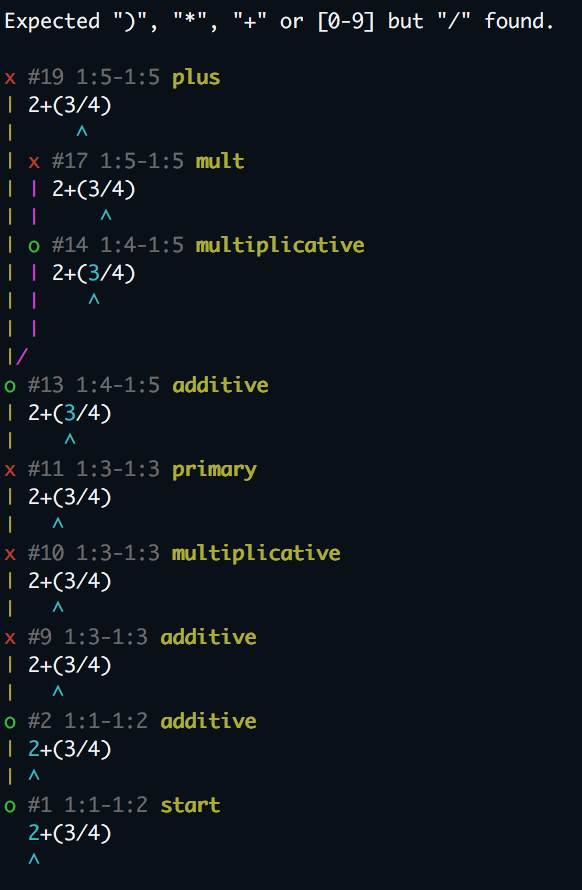
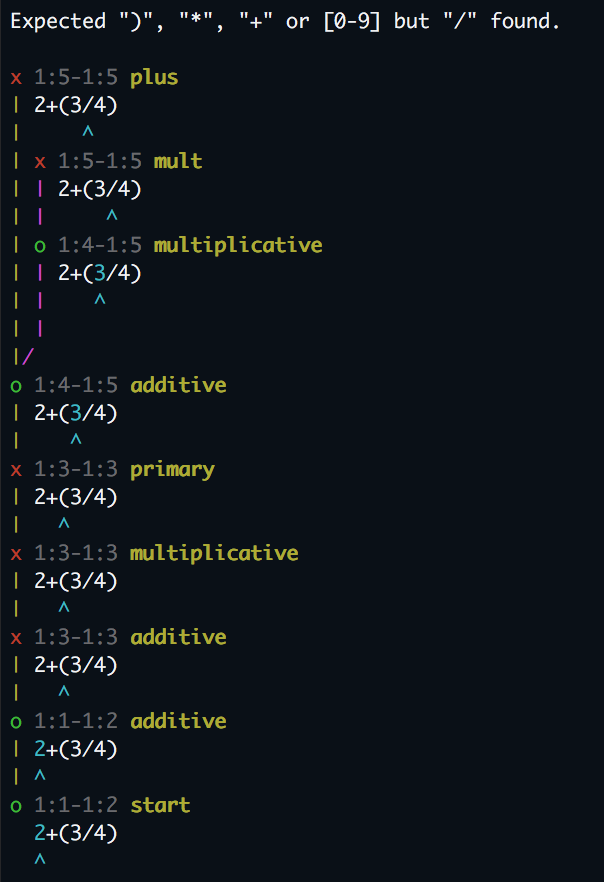
Update README.

diff --git a/README.md b/README.md
@@ -1,15 +1,13 @@
-# pegjs-backtrace.js
-A debug tracer module for PEG.js. It generates a backtrace of the grammer rules when the parser fails.
+# pegjs-backtrace
+A tracer module for PEG.js which generates a visual backtrace tree when the parser fails.
+
+This module also supports normal tracing output. See [showTrace](#showTrace) option for detail.
 
 # Example
-The following example grammer is from PEG.js tutorial. It recognizes arithmetic expressions like `2*(3+4)`.
+The following example grammer recognizes arithmetic expressions like `2*(3+4)`.
 
 ```
 start = additive
-
-plus = "+"
-
-mult = "*"
 
 additive = multiplicative plus additive / multiplicative
 
@@ -18,19 +16,33 @@ multiplicative = primary mult multiplicative / primary
 primary = integer / "(" additive ")"
 
 integer = digits:[0-9]+
+
+plus = "+"
+
+mult = "*"
 ```
 
-If you give the `2*(3/4)` which the grammer does not recognize, pegjs-backtrace shows backtrace from the most deep failure after parser fails as follows.
+If you give the `2*(3/4)` which the grammer does not recognize, pegjs-backtrace shows backtrace tree from the maximum failure position(s) to the start rule as follows.
 
-![](./sample/verbose.png)
+<img src="img/backtrace.png" width="400">
+
+# Install
+
+This module is still experimental and not registered to the npm repository. 
+Use npm install from git URL.
+
+```
+npm install https://github.com/okaxaki/pegjs-backtrace
+```
 
 # Usage
-pegjs-backtrace is implemented as a Tracer. When calling the `parse` function, pass the backtrace instance to the `tracer` option.
-Then, after parser fails, you can obtain a backtrace object from `backtrace()`, or backtrace string from `dumpBacktrace()`.
+
+pegjs-backtrace is implemented as a Tracer. When calling the `parse` function, pass the pegjs-backtrace instance to the `tracer` option.
+Then, after parser fails, you can obtain the backtrace string from `getBacktraceString()`.
 
 ```
-var Parser = require('./parser.js'); // parser generated by pegjs --trace
-var Tracer = require('pegjs-debug-backtrace');
+var Parser = require('./parser'); // parser generated by pegjs --trace
+var Tracer = require('pegjs-backtrace');
 
 var text = '2*(3/4)';
 var tracer = new Tracer(text); // input text is required.
@@ -38,31 +50,30 @@ var tracer = new Tracer(text); // input text is required.
 try {
     Parser.parse(text,{tracer:tracer});
 } catch(e) {
-	console.log(tracer.dumpBacktrace());
+	console.log(tracer.getBacktraceString());
 }
 ```
-Note that `--trace` option is required to generated parser.js with pegjs command. If the `--trace` option is not supplied, tracer feature is disabled.
+Note that `--trace` option is required to generated parser.js with pegjs command. If the option is not supplied, tracer feature is disabled.
 
 # Options
-
 When creating pegjs-backtrace instance, you can provide some options as follows.
 
 ```
 var Tracer = require('pegjs-backtrace');
 var tracer = new Tracer(text,{
   parent:null,
-  hiddenPaths:[],
+  hiddenPaths:['primary'],
   useColor:true,
-  truncateThreshold:128,
-  verbose:true,
+  showTrace:false,
   maxSourceLines:6,
+  maxPathLength:72,
 });
 ```
 
 ## parent
-This option specifies a parent Tracer instance. If the option is set, the parent's `trace` method is also called during parsing. The default value is `null`.
+This option specifies a parent Tracer instance. Once the option is given, the parent's `trace` method is also called during parsing. The default value is `null`.
 ```
-var Parser = require('parser.js');
+var Parser = require('./parser');
 var Tracer = require('pegjs-backtrace');
 var tracer = new Tracer(text,{
   parent:new Parser.DefaultTracer(),
@@ -70,35 +81,44 @@ var tracer = new Tracer(text,{
 ```
 
 ## useColor
-If true, the backtrace string is colored with ANSI escape sequence. Otherwise no escape sequence is used. The default value is `true`.
+If true, the output is colored with ANSI escape sequence. Otherwise no escape sequence is used. The default value is `true`.
 
-## truncateThreshold
-This option truncates the displaying path name if its length is greater than this value.
+## showSource
+If true, quoted source are shown on the trace nodes. Otherwise source is suppressed. The default value is `true`.
 
 ## maxSourceLines
-The maximum number of lines shown as the quoted source in a node.
+The maximum number of lines shown as the quoted source on each trace node. The default value is `6`.
 
-## verbose
-If the option is true, the full path name and the quoted source are shown for an each trace. Otherwise minimal information of each trace will be shown like following. The default value is `true`.
+## <a name="showTrace"></a>showTrace 
+If true, trace log is printed while parsing. The default value is `false`.
 
-![](./sample/no-verbose.png)
+<img src="img/trace.png" width="400">
+
+## showFullPath
+If the options is true, the rule path is shown instead of the rule name. The default value is `false`.
+
+<img src="img/path.png" width="90%">
+
+## maxPathLength
+The limit length of the displaying path name. When the path length exeeds to the limit, the path is truncated.
 
 ## hiddenPaths
-This option specifies trace path patterns to hide. Any trace that matches one of these patterns will be hidden from the backtrace. The default value is `[]`.
+This option specifies path patterns to hide. Any node that matches one of these patterns will be hidden from the trace log.
+**Note that this option works only with trace log, not for backtrace.** The default value is `[]`.
 
 ```
 var Tracer = require('pegjs-backtrace');
 var tracer = new Tracer(text,{
-  hiddenPaths:["integer","primary/.*"]
+  hiddenPaths:["integer", "primary/.*"]
 });
 ```
-
-The type of a pattern must be `string` or `RegExp`. If the type of element is string like `"FOO"`, it is treated as the regular expression `/(^|\/)FOO(\/|$)/`.
+The type of the pattern must be `string` or `RegExp`. Even the pattern is `string`, it may also contain RegExp meta characters.
+The `/` character can be used to represent the hierarchcal path of grammer rules. If the pattern is string like `"FOO"`, it is treated as the regular expression `/(^|\/)FOO(\/|$)/`.
 
 # Limitation
-In the quoted source, the cursor `^` sometimes points the wrong position if the input text contains East Asian full-width Characters.
+The cursor symbol `^` may points the wrong position if the prefix of source line is contains East Asian full-width Characters.
 
-The backtrace is based on the observable trace events from the pegjs parser. Any local failure inside a grammer rule is ignored. For example, if parser fails while
+The generating tree is based on the observable trace events from the pegjs parser. Any local failure inside a grammer rule is ignored. For example, if parser fails while
 reading `"+"` character in the following `additive` rule, we can observe the event that `additive` fails but cannot get any information of `"+"` fails.
 ```
 additive = multiplicative "+" additive / multiplicative
